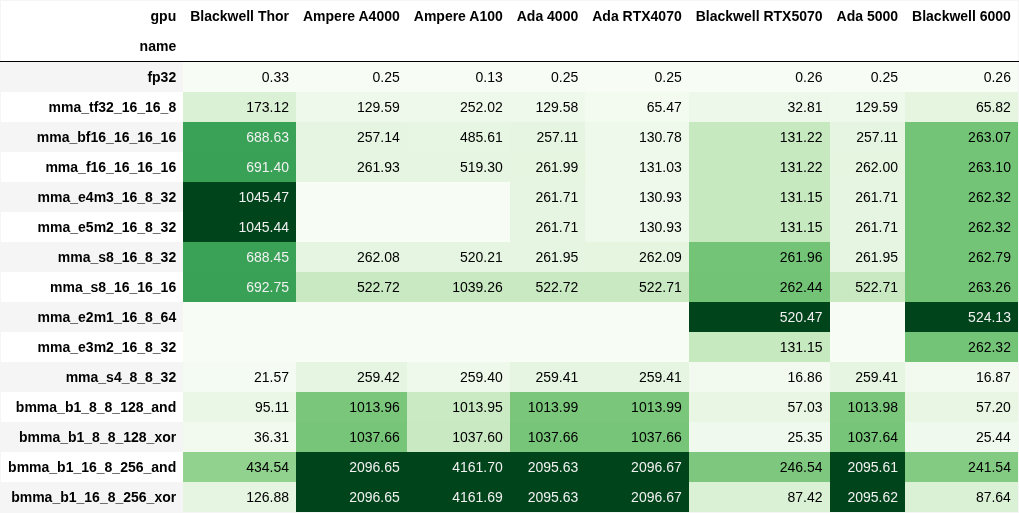
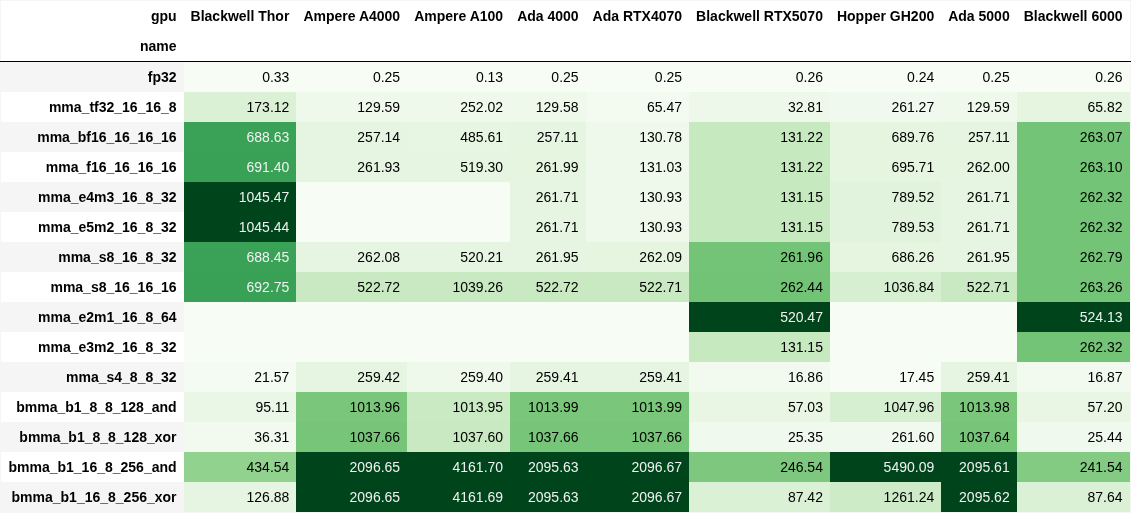
Add Hopper GH200

diff --git a/README.md b/README.md
@@ -22,11 +22,13 @@ Measured in teraoperations per second (TOPs), showing raw computational throughp
       <th>Ada 4000</th>
       <th>Ada RTX4070</th>
       <th>Blackwell RTX5070</th>
+      <th>Hopper GH200</th>
       <th>Ada 5000</th>
       <th>Blackwell 6000</th>
     </tr>
     <tr>
       <th>name</th>
+      <th></th>
       <th></th>
       <th></th>
       <th></th>
@@ -46,6 +48,7 @@ Measured in teraoperations per second (TOPs), showing raw computational throughp
       <td>26.407110</td>
       <td>28.797527</td>
       <td>30.819866</td>
+      <td>61.853293</td>
       <td>64.498883</td>
       <td>109.655750</td>
     </tr>
@@ -57,6 +60,7 @@ Measured in teraoperations per second (TOPs), showing raw computational throughp
       <td>52.844960</td>
       <td>29.114508</td>
       <td>15.454058</td>
+      <td>266.736800</td>
       <td>129.080338</td>
       <td>110.215085</td>
     </tr>
@@ -68,6 +72,7 @@ Measured in teraoperations per second (TOPs), showing raw computational throughp
       <td>104.852255</td>
       <td>58.160180</td>
       <td>61.804632</td>
+      <td>704.198000</td>
       <td>256.103896</td>
       <td>440.483894</td>
     </tr>
@@ -79,6 +84,7 @@ Measured in teraoperations per second (TOPs), showing raw computational throughp
       <td>106.844700</td>
       <td>58.274648</td>
       <td>61.802681</td>
+      <td>710.275867</td>
       <td>260.972078</td>
       <td>440.530013</td>
     </tr>
@@ -90,6 +96,7 @@ Measured in teraoperations per second (TOPs), showing raw computational throughp
       <td>213.455950</td>
       <td>116.452746</td>
       <td>123.545516</td>
+      <td>1612.101333</td>
       <td>521.370130</td>
       <td>878.445664</td>
     </tr>
@@ -101,6 +108,7 @@ Measured in teraoperations per second (TOPs), showing raw computational throughp
       <td>213.455950</td>
       <td>116.452617</td>
       <td>123.544432</td>
+      <td>1612.116000</td>
       <td>521.370130</td>
       <td>878.438458</td>
     </tr>
@@ -112,6 +120,7 @@ Measured in teraoperations per second (TOPs), showing raw computational throughp
       <td>213.654600</td>
       <td>233.112773</td>
       <td>246.765783</td>
+      <td>1401.265067</td>
       <td>521.855844</td>
       <td>880.022351</td>
     </tr>
@@ -123,6 +132,7 @@ Measured in teraoperations per second (TOPs), showing raw computational throughp
       <td>213.170300</td>
       <td>232.464375</td>
       <td>123.608397</td>
+      <td>1058.547600</td>
       <td>520.672468</td>
       <td>440.795196</td>
     </tr>
@@ -135,6 +145,7 @@ Measured in teraoperations per second (TOPs), showing raw computational throughp
       <td>0.000000</td>
       <td>490.279085</td>
       <td>0.000000</td>
+      <td>0.000000</td>
       <td>1755.167636</td>
     </tr>
     <tr>
@@ -146,6 +157,7 @@ Measured in teraoperations per second (TOPs), showing raw computational throughp
       <td>0.000000</td>
       <td>123.546600</td>
       <td>0.000000</td>
+      <td>0.000000</td>
       <td>878.454311</td>
     </tr>
     <tr>
@@ -156,6 +168,7 @@ Measured in teraoperations per second (TOPs), showing raw computational throughp
       <td>423.168000</td>
       <td>461.474063</td>
       <td>31.767964</td>
+      <td>71.268413</td>
       <td>1033.597792</td>
       <td>112.956561</td>
     </tr>
@@ -167,6 +180,7 @@ Measured in teraoperations per second (TOPs), showing raw computational throughp
       <td>1654.073000</td>
       <td>1803.798047</td>
       <td>107.446707</td>
+      <td>4279.616000</td>
       <td>4040.061039</td>
       <td>383.101972</td>
     </tr>
@@ -178,6 +192,7 @@ Measured in teraoperations per second (TOPs), showing raw computational throughp
       <td>1692.686500</td>
       <td>1845.898828</td>
       <td>47.764211</td>
+      <td>1068.321467</td>
       <td>4134.355844</td>
       <td>170.378837</td>
     </tr>
@@ -189,6 +204,7 @@ Measured in teraoperations per second (TOPs), showing raw computational throughp
       <td>1709.245500</td>
       <td>1864.886719</td>
       <td>232.242369</td>
+      <td>11210.085333</td>
       <td>4174.846753</td>
       <td>808.865310</td>
     </tr>
@@ -200,6 +216,7 @@ Measured in teraoperations per second (TOPs), showing raw computational throughp
       <td>1709.245500</td>
       <td>1864.886719</td>
       <td>82.348065</td>
+      <td>2575.290667</td>
       <td>4174.868831</td>
       <td>293.480101</td>
     </tr>
@@ -224,11 +241,13 @@ Operations per cycle, showing how performance scales across different data types
       <th>Ada 4000</th>
       <th>Ada RTX4070</th>
       <th>Blackwell RTX5070</th>
+      <th>Hopper GH200</th>
       <th>Ada 5000</th>
       <th>Blackwell 6000</th>
     </tr>
     <tr>
       <th>name</th>
+      <th></th>
       <th></th>
       <th></th>
       <th></th>
@@ -248,6 +267,7 @@ Operations per cycle, showing how performance scales across different data types
       <td>0.252942</td>
       <td>0.252943</td>
       <td>0.255605</td>
+      <td>0.236659</td>
       <td>0.252937</td>
       <td>0.255822</td>
     </tr>
@@ -259,6 +279,7 @@ Operations per cycle, showing how performance scales across different data types
       <td>129.581511</td>
       <td>65.466087</td>
       <td>32.811164</td>
+      <td>261.266532</td>
       <td>129.586535</td>
       <td>65.824612</td>
     </tr>
@@ -270,6 +291,7 @@ Operations per cycle, showing how performance scales across different data types
       <td>257.108978</td>
       <td>130.777391</td>
       <td>131.220026</td>
+      <td>689.756229</td>
       <td>257.108225</td>
       <td>263.073621</td>
     </tr>
@@ -281,6 +303,7 @@ Operations per cycle, showing how performance scales across different data types
       <td>261.994667</td>
       <td>131.034783</td>
       <td>131.215883</td>
+      <td>695.70945</td>
       <td>261.995498</td>
       <td>263.101165</td>
     </tr>
@@ -292,6 +315,7 @@ Operations per cycle, showing how performance scales across different data types
       <td>261.708444</td>
       <td>130.926232</td>
       <td>131.152352</td>
+      <td>789.52009</td>
       <td>261.707359</td>
       <td>262.320467</td>
     </tr>
@@ -303,6 +327,7 @@ Operations per cycle, showing how performance scales across different data types
       <td>261.708444</td>
       <td>130.926087</td>
       <td>131.151201</td>
+      <td>789.527273</td>
       <td>261.707359</td>
       <td>262.318315</td>
     </tr>
@@ -314,6 +339,7 @@ Operations per cycle, showing how performance scales across different data types
       <td>261.952</td>
       <td>262.085507</td>
       <td>261.95943</td>
+      <td>686.263883</td>
       <td>261.951169</td>
       <td>262.791296</td>
     </tr>
@@ -325,6 +351,7 @@ Operations per cycle, showing how performance scales across different data types
       <td>522.716444</td>
       <td>522.713043</td>
       <td>262.43821</td>
+      <td>1036.838788</td>
       <td>522.71432</td>
       <td>263.259542</td>
     </tr>
@@ -337,6 +364,7 @@ Operations per cycle, showing how performance scales across different data types
       <td>0.0</td>
       <td>520.46612</td>
       <td>0.0</td>
+      <td>0.0</td>
       <td>524.126207</td>
     </tr>
     <tr>
@@ -348,6 +376,7 @@ Operations per cycle, showing how performance scales across different data types
       <td>0.0</td>
       <td>131.153503</td>
       <td>0.0</td>
+      <td>0.0</td>
       <td>262.323049</td>
     </tr>
     <tr>
@@ -358,6 +387,7 @@ Operations per cycle, showing how performance scales across different data types
       <td>259.413333</td>
       <td>259.414493</td>
       <td>16.861977</td>
+      <td>17.451708</td>
       <td>259.412779</td>
       <td>16.865481</td>
     </tr>
@@ -369,6 +399,7 @@ Operations per cycle, showing how performance scales across different data types
       <td>1013.991111</td>
       <td>1013.992754</td>
       <td>57.031161</td>
+      <td>1047.96229</td>
       <td>1013.976104</td>
       <td>57.200742</td>
     </tr>
@@ -380,6 +411,7 @@ Operations per cycle, showing how performance scales across different data types
       <td>1037.662222</td>
       <td>1037.65942</td>
       <td>25.352554</td>
+      <td>261.603053</td>
       <td>1037.642251</td>
       <td>25.439169</td>
     </tr>
@@ -391,6 +423,7 @@ Operations per cycle, showing how performance scales across different data types
       <td>2095.626667</td>
       <td>2096.666667</td>
       <td>246.541793</td>
+      <td>5490.093827</td>
       <td>2095.609351</td>
       <td>241.542459</td>
     </tr>
@@ -402,6 +435,7 @@ Operations per cycle, showing how performance scales across different data types
       <td>2095.626667</td>
       <td>2096.666667</td>
       <td>87.418328</td>
+      <td>1261.238159</td>
       <td>2095.620433</td>
       <td>87.638701</td>
     </tr>
@@ -409,4 +443,4 @@ Operations per cycle, showing how performance scales across different data types
 </table>
 </details>
 
-*Report generated on 2025-11-06 16:54 UTC*
+*Report generated on 2025-11-06 17:06 UTC*
